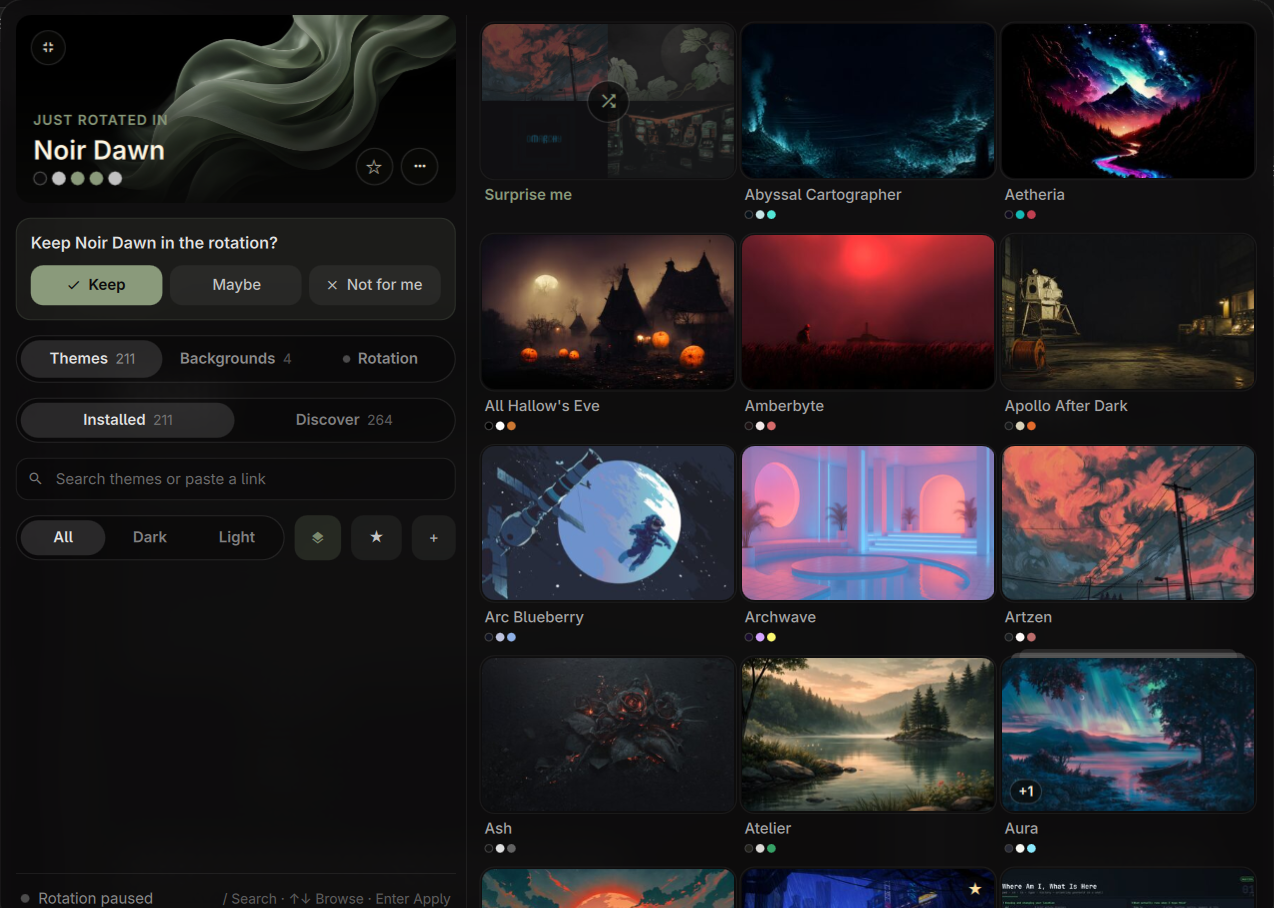
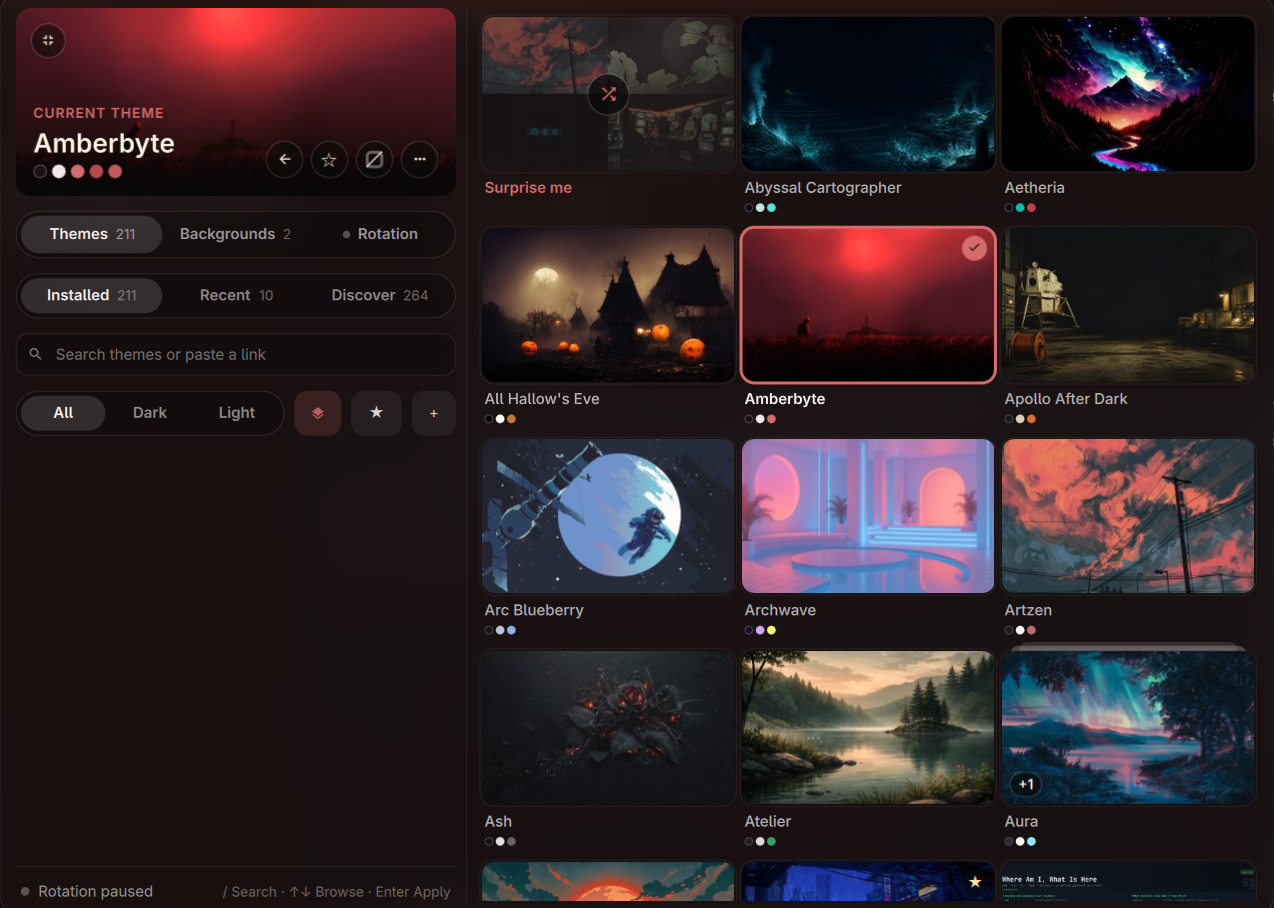
Retake preview.png from the final UI

diff --git a/docs/RELEASE-CHECKLIST.md b/docs/RELEASE-CHECKLIST.md
@@ -6,7 +6,7 @@ https://github.com/omacom/omarchy-plugin-marketplace (rules: SUBMISSION.md, SECU
 ## Repository basics
 - [x] Own repository, `manifest.json` at the root
 - [x] Permanent ID `io.github.denonmaryland.theme-studio`, category Appearance
-- [x] `preview.png` at the root (panel-only screenshot; retake once the UI is final)
+- [x] `preview.png` at the root (panel-only screenshot of the final UI)
 - [x] LICENSE file (owner to choose; MIT is the common choice)
 - [x] README with install, removal, external dependencies (draft present)
 - [x] Private GitHub repository: https://github.com/denonmaryland/omarchy-theme-studio
@@ -97,6 +97,6 @@ https://github.com/omacom/omarchy-plugin-marketplace (rules: SUBMISSION.md, SECU
       label readable with dark accents.
 - [x] Background thumbnails load from the theme's own folder, so a switch no
       longer leaves them pointing at the replaced `current/theme/backgrounds`.
-- [ ] Retake preview.png from the final UI.
+- [x] Retake preview.png from the final UI (2026-10-27, wide panel, live QML of 3a477cd).
 - [ ] Prepare promo video/screenshots with licensed assets and no private desktop data.
 - [ ] After review: make public and submit.
